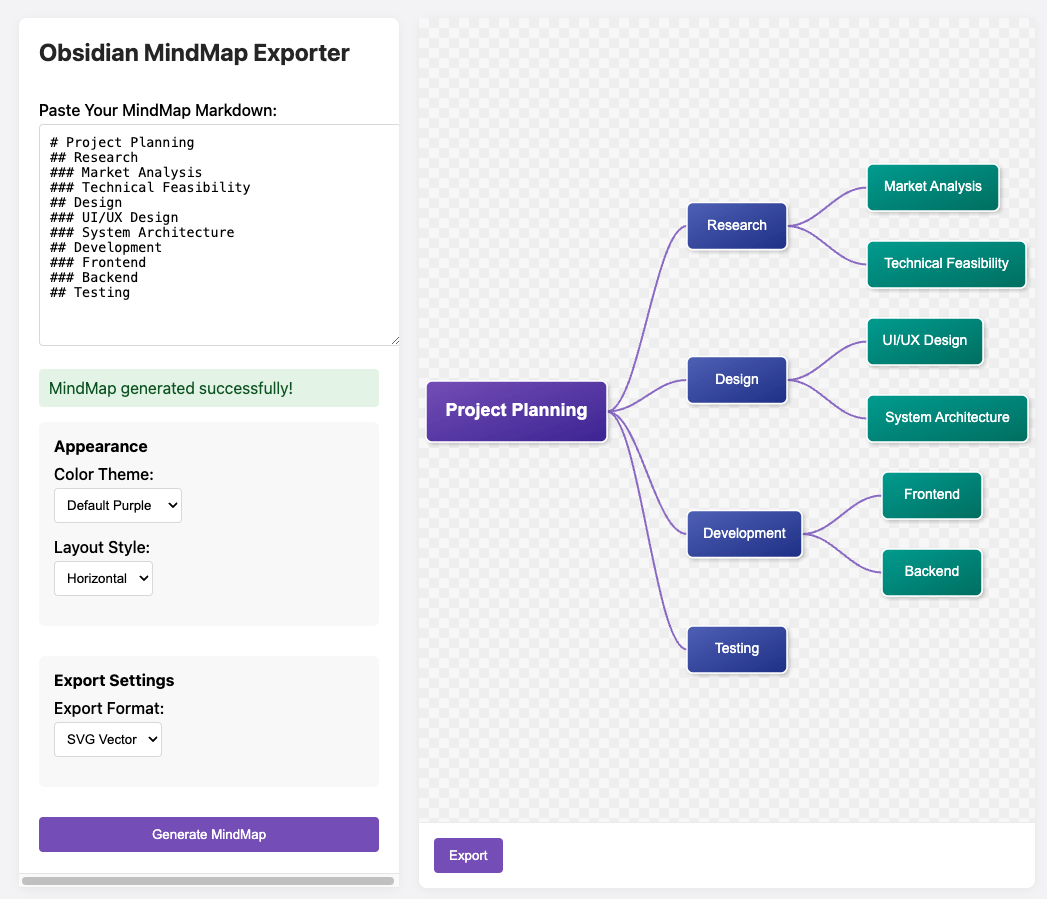
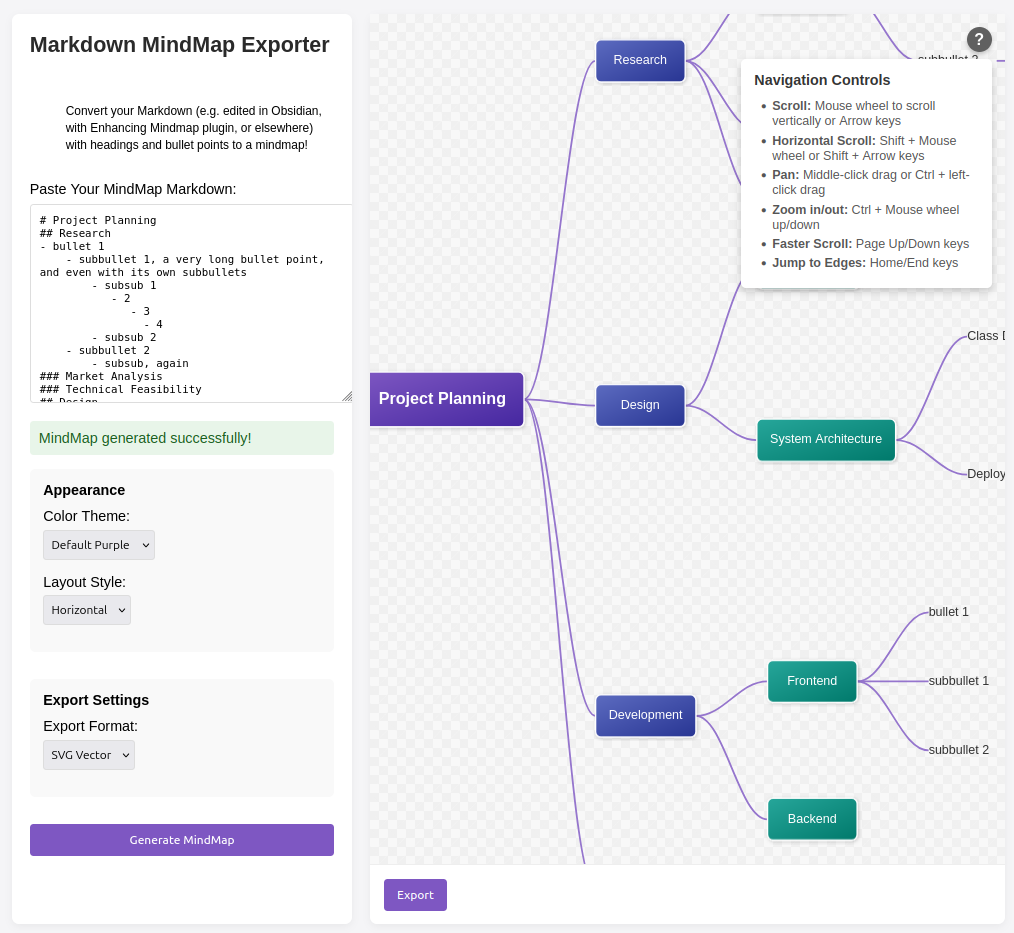
feat: polishing help

diff --git a/mindmap.js b/mindmap.js
@@ -151,33 +151,36 @@ document.addEventListener('DOMContentLoaded', function() {
     function initHelpButton() {
         const helpButton = document.getElementById('help-button');
         const helpTooltip = document.getElementById('help-tooltip');
-        const closeTooltip = document.querySelector('.close-tooltip');
 
-        // Toggle tooltip visibility when help button is clicked
-        helpButton.addEventListener('click', () => {
-            helpTooltip.classList.toggle('visible');
-        });
+        let tooltipTimeout;
 
-        // Close tooltip when X is clicked
-        closeTooltip.addEventListener('click', () => {
-            helpTooltip.classList.remove('visible');
-        });
+        // When moving out of the tooltip or button, start a timer to hide the tooltip
+        function startHideTimer() {
+            tooltipTimeout = setTimeout(() => {
+                helpTooltip.style.visibility = 'hidden';
+                helpTooltip.style.opacity = '0';
+            }, 300); // Delay in milliseconds before hiding
+        }
 
-        // Close tooltip when clicking outside
-        document.addEventListener('click', (e) => {
-            if (!helpTooltip.contains(e.target) && e.target !== helpButton) {
-                helpTooltip.classList.remove('visible');
+        // If moving back over the tooltip or button, cancel the timer
+        function cancelHideTimer() {
+            if (tooltipTimeout) {
+                clearTimeout(tooltipTimeout);
+                tooltipTimeout = null;
             }
+        }
+
+        // Attach event listeners for mouse movements
+        helpButton.addEventListener('mouseenter', () => {
+            cancelHideTimer();
+            helpTooltip.style.visibility = 'visible';
+            helpTooltip.style.opacity = '1';
         });
 
-        // Close tooltip when ESC key is pressed
-        document.addEventListener('keydown', (e) => {
-            if (e.key === 'Escape') {
-                helpTooltip.classList.remove('visible');
-            }
-        });
+        helpButton.addEventListener('mouseleave', startHideTimer);
+        helpTooltip.addEventListener('mouseenter', cancelHideTimer);
+        helpTooltip.addEventListener('mouseleave', startHideTimer);
     }
-
 
     // Function to initialize the mindmap container for scrolling
     function initMindmapContainer() {

diff --git a/simple-mindmap-exporter.html b/simple-mindmap-exporter.html
@@ -8,8 +8,9 @@
 </head>
 <body>
     <div class="sidebar">
-        <h1>Obsidian MindMap Exporter</h1>
-
+        <h1>Markdown MindMap Exporter</h1>
+        <ul><small>Convert your Markdown (e.g. edited in Obsidian, with Enhancing Mindmap plugin, or elsewhere)
+            with headings and bullet points to a mindmap!</small></ul>
         <div>
             <label for="markdown-input">Paste Your MindMap Markdown:</label>
             <textarea id="markdown-input" placeholder="# Root Topic&#10;## Subtopic 1&#10;### Detail 1.1&#10;## Subtopic 2"></textarea>
@@ -55,17 +56,18 @@
         <div class="preview-content">
             <div id="mindmap-container"></div>
             <div class="loading" id="loading-indicator">Generate a mindmap to preview</div>
-            <div id="help-button" class="help-button" title="Navigation Help">?</div>
+            <div id="help-button" class="help-button">?</div>
             <div id="help-tooltip" class="help-tooltip">
                 <div class="help-tooltip-content">
                     <h3>Navigation Controls</h3>
                     <ul>
-                        <li><strong>Scroll:</strong> Mouse wheel to scroll vertically</li>
-                        <li><strong>Horizontal Scroll:</strong> Shift + Mouse wheel</li>
-                        <li><strong>Pan:</strong> Middle-click drag or Ctrl + left-click drag</li>
-                        <li><strong>Zoom in/out:</strong> Ctrl + Mouse wheel up/down</li>
+                       <li><strong>Scroll:</strong> Mouse wheel to scroll vertically or Arrow keys</li>
+                       <li><strong>Horizontal Scroll:</strong> Shift + Mouse wheel or Shift + Arrow keys</li>
+                       <li><strong>Pan:</strong> Middle-click drag or Ctrl + left-click drag</li>
+                       <li><strong>Zoom in/out:</strong> Ctrl + Mouse wheel up/down</li>
+                       <li><strong>Faster Scroll:</strong> Page Up/Down keys</li>
+                       <li><strong>Jump to Edges:</strong> Home/End keys</li>
                     </ul>
-                    <div class="close-tooltip">&times;</div>
                 </div>
             </div>
         </div>

diff --git a/style.css b/style.css
@@ -176,7 +176,7 @@ select {
     justify-content: center;
     font-weight: bold;
     font-size: 18px;
-    cursor: pointer;
+    cursor: help;
     z-index: 100;
     box-shadow: 0 2px 5px rgba(0, 0, 0, 0.2);
     transition: background-color 0.3s;
@@ -196,12 +196,18 @@ select {
     box-shadow: 0 3px 10px rgba(0, 0, 0, 0.2);
     z-index: 99;
     width: 280px;
-    display: none;
+    visibility: hidden;
+    opacity: 0;
+    transition: opacity 0.3s, visibility 0s 0.3s;
+    pointer-events: none;
 }
 
-.help-tooltip.visible {
-    display: block;
-    animation: fadeIn 0.3s;
+.help-button:hover + .help-tooltip,
+.help-tooltip:hover {
+    visibility: visible;
+    opacity: 1;
+    transition: opacity 0.3s;
+    pointer-events: auto;
 }
 
 .help-tooltip-content {
@@ -224,22 +230,4 @@ select {
     margin-bottom: 5px;
     font-size: 14px;
     color: #555;
-}
-
-.close-tooltip {
-    position: absolute;
-    top: 8px;
-    right: 10px;
-    font-size: 20px;
-    color: #999;
-    cursor: pointer;
-}
-
-.close-tooltip:hover {
-    color: #333;
-}
-
-@keyframes fadeIn {
-    from { opacity: 0; }
-    to { opacity: 1; }
 }
